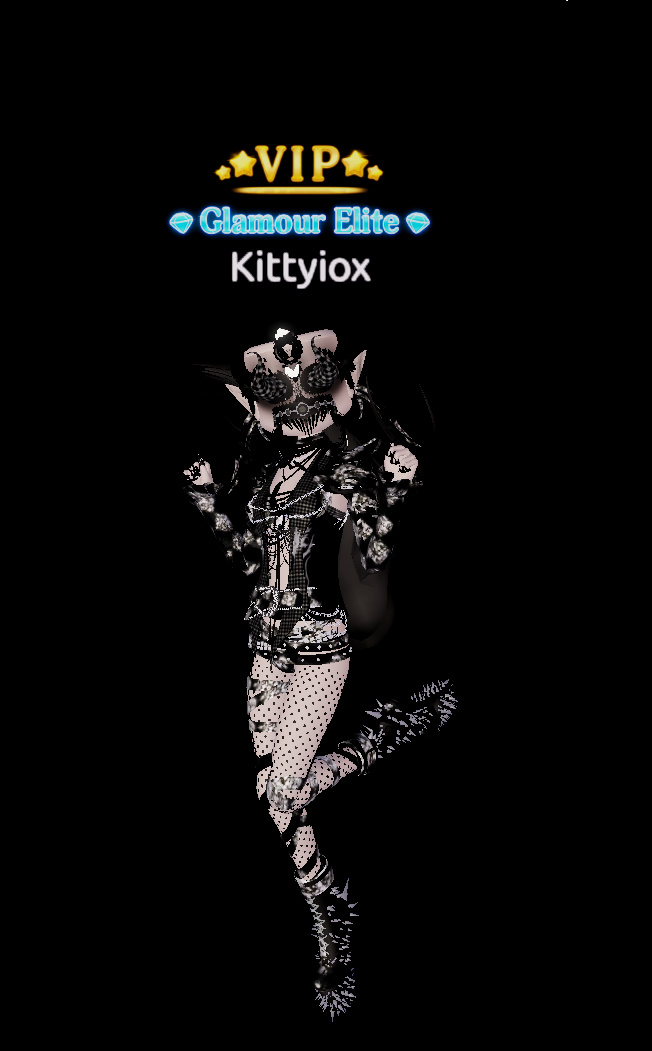
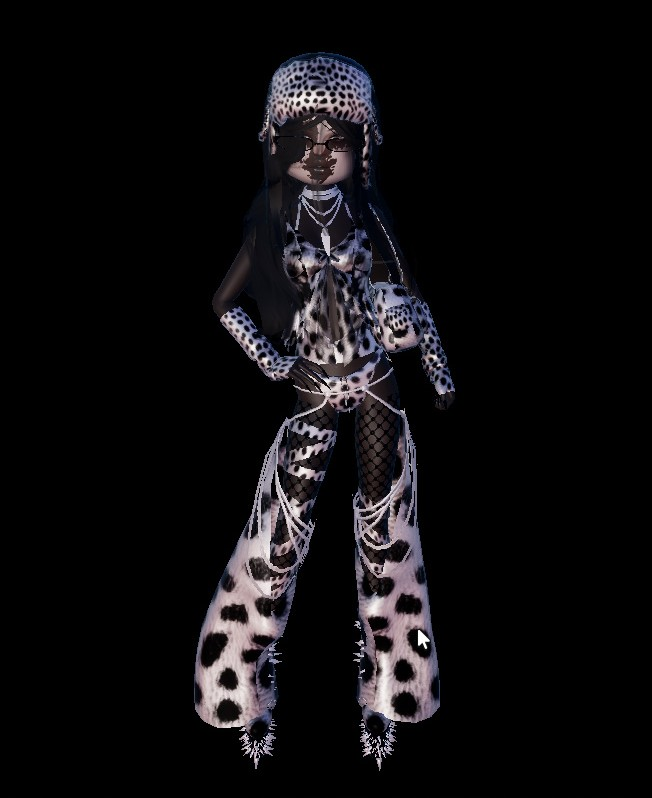
update

Changed region(s): [[0.2454, 0.0602, 0.7055, 0.9624]]

diff --git a/app/components/StylistSection.tsx b/app/components/StylistSection.tsx
@@ -7,7 +7,7 @@ export default function StylistSection() {
         <div className="stylist-photo">
           <div className="stylist-photo-ring" />
           <img
-            src="/stylist-removebg-preview.png"
+            src="/stylist.jpeg"
             alt="kittyiox's Roblox avatar, a close-up styling shot"
             className="stylist-img"
           />
